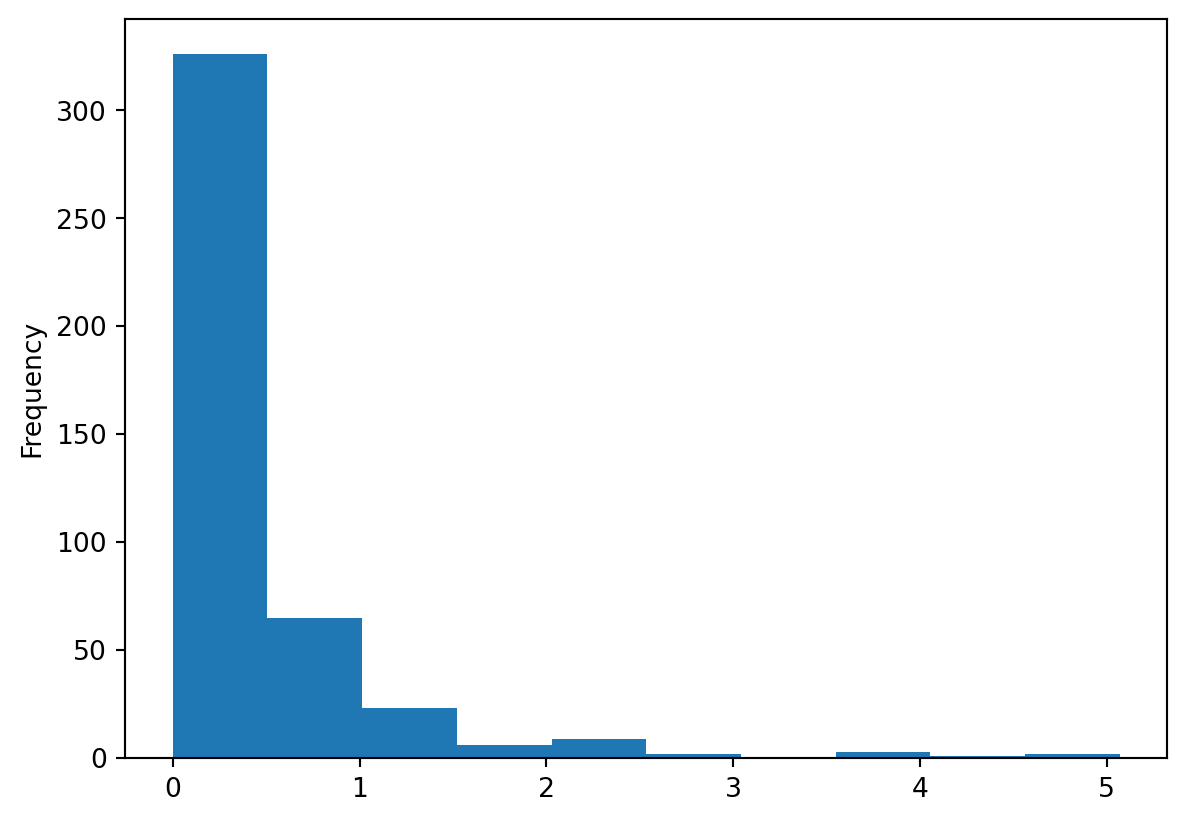
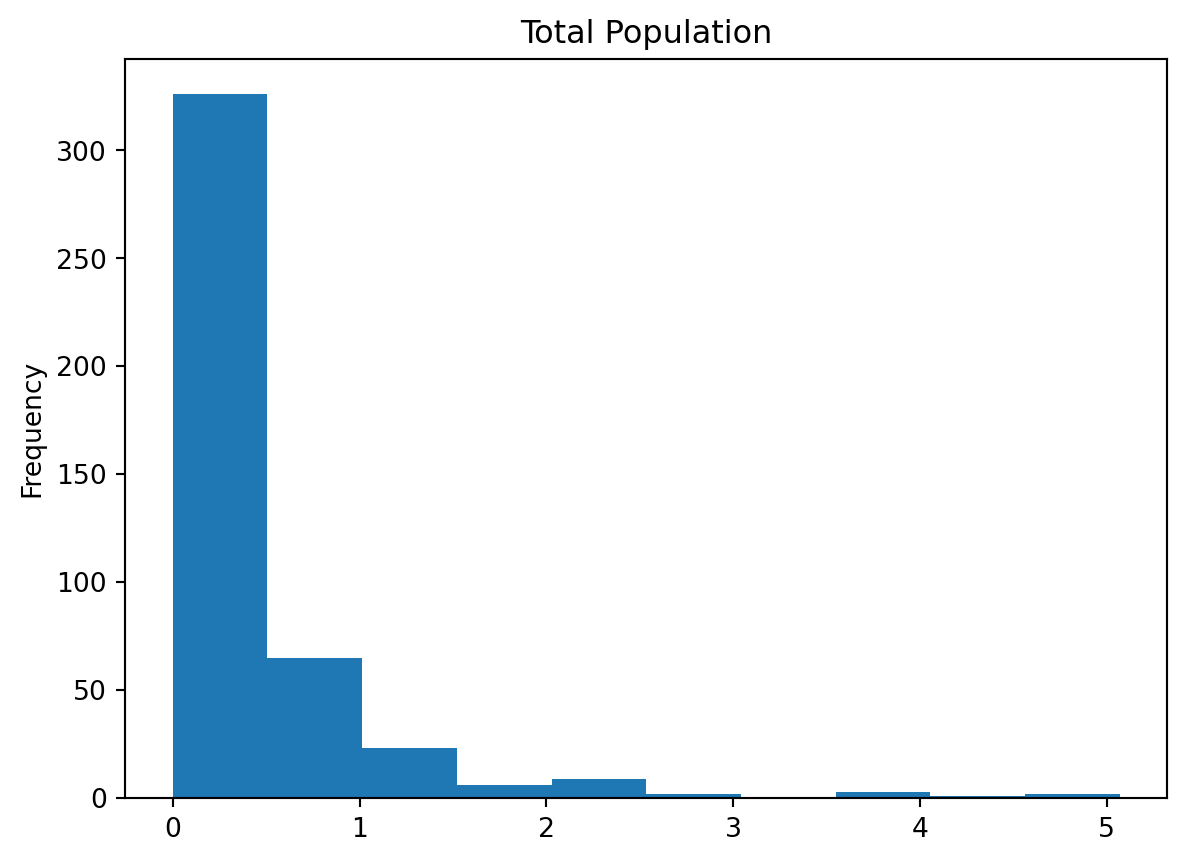
final_final

diff --git a/docs/hw1.html b/docs/hw1.html
@@ -7,7 +7,7 @@
 <meta name="viewport" content="width=device-width, initial-scale=1.0, user-scalable=yes">
 
 
-<title>Compute Tiger - INFO</title>
+<title>Compute Tiger - HW1</title>
 <style>
 code{white-space: pre-wrap;}
 span.smallcaps{font-variant: small-caps;}
@@ -138,7 +138,7 @@ pre > code.sourceCode > span > a:first-child::before { text-decoration: underlin
   </li>  
   <li class="nav-item">
     <a class="nav-link active" href="./hw1.html" aria-current="page"> 
-<span class="menu-text">INFO</span></a>
+<span class="menu-text">HW1</span></a>
   </li>  
 </ul>
           </div> <!-- /navcollapse -->
@@ -156,9 +156,25 @@ pre > code.sourceCode > span > a:first-child::before { text-decoration: underlin
     <h2 id="toc-title">On this page</h2>
    
   <ul>
-  <li><a href="#page" id="toc-page" class="nav-link active" data-scroll-target="#page">1.(84page)</a></li>
-  <li><a href="#page-1" id="toc-page-1" class="nav-link" data-scroll-target="#page-1">2.(115page)</a></li>
-  <li><a href="#page-2" id="toc-page-2" class="nav-link" data-scroll-target="#page-2">3.(130page)</a></li>
+  <li><a href="#page" id="toc-page" class="nav-link active" data-scroll-target="#page">1.(84page)</a>
+  <ul class="collapse">
+  <li><a href="#다음-표의-내용을-데이터-프레임으로-만들어-출력해보세요." id="toc-다음-표의-내용을-데이터-프레임으로-만들어-출력해보세요." class="nav-link" data-scroll-target="#다음-표의-내용을-데이터-프레임으로-만들어-출력해보세요.">다음 표의 내용을 데이터 프레임으로 만들어 출력해보세요.</a></li>
+  <li><a href="#앞에서-만든-데이터-프레임을-이용해-과일의-가격-평균과-판매량-평균을-구해보세요." id="toc-앞에서-만든-데이터-프레임을-이용해-과일의-가격-평균과-판매량-평균을-구해보세요." class="nav-link" data-scroll-target="#앞에서-만든-데이터-프레임을-이용해-과일의-가격-평균과-판매량-평균을-구해보세요.">앞에서 만든 데이터 프레임을 이용해 과일의 가격 평균과 판매량 평균을 구해보세요.</a></li>
+  </ul></li>
+  <li><a href="#page-1" id="toc-page-1" class="nav-link" data-scroll-target="#page-1">2.(115page)</a>
+  <ul class="collapse">
+  <li><a href="#mpg-데이터를-불러와-복사본을-만드세요." id="toc-mpg-데이터를-불러와-복사본을-만드세요." class="nav-link" data-scroll-target="#mpg-데이터를-불러와-복사본을-만드세요.">mpg 데이터를 불러와 복사본을 만드세요.</a></li>
+  <li><a href="#복사본-데이터를-이용해-cty는-city로-hwy는-highway로-수정하세요." id="toc-복사본-데이터를-이용해-cty는-city로-hwy는-highway로-수정하세요." class="nav-link" data-scroll-target="#복사본-데이터를-이용해-cty는-city로-hwy는-highway로-수정하세요.">복사본 데이터를 이용해 cty는 city로, hwy는 highway로 수정하세요.</a></li>
+  <li><a href="#데이터-일부를-출력해-변수명이-바뀌었는지-확인해-보세요.-다음과-같은-결과물이-출력되어야-합니다." id="toc-데이터-일부를-출력해-변수명이-바뀌었는지-확인해-보세요.-다음과-같은-결과물이-출력되어야-합니다." class="nav-link" data-scroll-target="#데이터-일부를-출력해-변수명이-바뀌었는지-확인해-보세요.-다음과-같은-결과물이-출력되어야-합니다.">데이터 일부를 출력해 변수명이 바뀌었는지 확인해 보세요. 다음과 같은 결과물이 출력되어야 합니다.</a></li>
+  </ul></li>
+  <li><a href="#page-2" id="toc-page-2" class="nav-link" data-scroll-target="#page-2">3.(130page)</a>
+  <ul class="collapse">
+  <li><a href="#midwest.csv를-불러와-데이터의-특징을-파악하세요." id="toc-midwest.csv를-불러와-데이터의-특징을-파악하세요." class="nav-link" data-scroll-target="#midwest.csv를-불러와-데이터의-특징을-파악하세요.">midwest.csv를 불러와 데이터의 특징을 파악하세요.</a></li>
+  <li><a href="#poptotal-변수를-total로-popasian-변수를-asian으로-수정하세요." id="toc-poptotal-변수를-total로-popasian-변수를-asian으로-수정하세요." class="nav-link" data-scroll-target="#poptotal-변수를-total로-popasian-변수를-asian으로-수정하세요.">poptotal 변수를 total로, popasian 변수를 asian으로 수정하세요.</a></li>
+  <li><a href="#total-asian-변수를-이용해-전체-인구-대비-아시아-인구-백분율-파생변수를-추가하고-히스토그램을-만들어-분포를-살펴보세요." id="toc-total-asian-변수를-이용해-전체-인구-대비-아시아-인구-백분율-파생변수를-추가하고-히스토그램을-만들어-분포를-살펴보세요." class="nav-link" data-scroll-target="#total-asian-변수를-이용해-전체-인구-대비-아시아-인구-백분율-파생변수를-추가하고-히스토그램을-만들어-분포를-살펴보세요.">total, asian 변수를 이용해 ‘전체 인구 대비 아시아 인구 백분율’ 파생변수를 추가하고, 히스토그램을 만들어 분포를 살펴보세요.</a></li>
+  <li><a href="#아시아-인구-백분율-전체-평균을-구하고-평균을-초과하면-large-그-외에는-small을-부여한-파생변수를-만들어보세요." id="toc-아시아-인구-백분율-전체-평균을-구하고-평균을-초과하면-large-그-외에는-small을-부여한-파생변수를-만들어보세요." class="nav-link" data-scroll-target="#아시아-인구-백분율-전체-평균을-구하고-평균을-초과하면-large-그-외에는-small을-부여한-파생변수를-만들어보세요.">아시아 인구 백분율 전체 평균을 구하고, 평균을 초과하면 ‘large’, 그 외에는 ’small’을 부여한 파생변수를 만들어보세요.</a></li>
+  <li><a href="#large와-small에-해당하는-지역이-얼마나-많은지-빈도표와-빈도-막대-그래프를-만들어-확인해-보세요." id="toc-large와-small에-해당하는-지역이-얼마나-많은지-빈도표와-빈도-막대-그래프를-만들어-확인해-보세요." class="nav-link" data-scroll-target="#large와-small에-해당하는-지역이-얼마나-많은지-빈도표와-빈도-막대-그래프를-만들어-확인해-보세요.">’large’와 ’small’에 해당하는 지역이 얼마나 많은지 빈도표와 빈도 막대 그래프를 만들어 확인해 보세요.</a></li>
+  </ul></li>
   </ul>
 </nav>
     </div>
@@ -167,7 +183,7 @@ pre > code.sourceCode > span > a:first-child::before { text-decoration: underlin
 
 <header id="title-block-header" class="quarto-title-block default">
 <div class="quarto-title">
-<h1 class="title">INFO</h1>
+<h1 class="title">HW1</h1>
 </div>
 
 
@@ -184,33 +200,79 @@ pre > code.sourceCode > span > a:first-child::before { text-decoration: underlin
 </header>
 
 
-<section id="page" class="level2">
-<h2 class="anchored" data-anchor-id="page">1.(84page)</h2>
-<div id="bc7ad1bc" class="cell" data-execution_count="1">
+<section id="page" class="level1">
+<h1>1.(84page)</h1>
+<section id="다음-표의-내용을-데이터-프레임으로-만들어-출력해보세요." class="level3">
+<h3 class="anchored" data-anchor-id="다음-표의-내용을-데이터-프레임으로-만들어-출력해보세요.">다음 표의 내용을 데이터 프레임으로 만들어 출력해보세요.</h3>
+<div id="87f2c654" class="cell" data-execution_count="1">
 <div class="sourceCode cell-code" id="cb1"><pre class="sourceCode python code-with-copy"><code class="sourceCode python"><span id="cb1-1"><a href="#cb1-1" aria-hidden="true" tabindex="-1"></a><span class="im">import</span> pandas <span class="im">as</span> pd</span>
 <span id="cb1-2"><a href="#cb1-2" aria-hidden="true" tabindex="-1"></a><span class="im">import</span> numpy <span class="im">as</span> np</span>
 <span id="cb1-3"><a href="#cb1-3" aria-hidden="true" tabindex="-1"></a><span class="im">import</span> seaborn <span class="im">as</span> sns</span>
-<span id="cb1-4"><a href="#cb1-4" aria-hidden="true" tabindex="-1"></a><span class="im">import</span> matplotlib.pyplot <span class="im">as</span> plt</span>
+<span id="cb1-4"><a href="#cb1-4" aria-hidden="true" tabindex="-1"></a></span>
 <span id="cb1-5"><a href="#cb1-5" aria-hidden="true" tabindex="-1"></a></span>
 <span id="cb1-6"><a href="#cb1-6" aria-hidden="true" tabindex="-1"></a>df1<span class="op">=</span>pd.DataFrame({</span>
 <span id="cb1-7"><a href="#cb1-7" aria-hidden="true" tabindex="-1"></a>    <span class="st">"제품"</span>:[<span class="st">"사과"</span>,<span class="st">"딸기"</span>,<span class="st">"수박"</span>],</span>
 <span id="cb1-8"><a href="#cb1-8" aria-hidden="true" tabindex="-1"></a>    <span class="st">"가격"</span>:[<span class="dv">1800</span>,<span class="dv">1500</span>,<span class="dv">3000</span>],</span>
-<span id="cb1-9"><a href="#cb1-9" aria-hidden="true" tabindex="-1"></a>    <span class="st">"판매량"</span>:[<span class="dv">24</span>,<span class="dv">38</span>,<span class="dv">13</span>]})</span></code><button title="Copy to Clipboard" class="code-copy-button"><i class="bi"></i></button></pre></div>
+<span id="cb1-9"><a href="#cb1-9" aria-hidden="true" tabindex="-1"></a>    <span class="st">"판매량"</span>:[<span class="dv">24</span>,<span class="dv">38</span>,<span class="dv">13</span>]})</span>
+<span id="cb1-10"><a href="#cb1-10" aria-hidden="true" tabindex="-1"></a>df1</span></code><button title="Copy to Clipboard" class="code-copy-button"><i class="bi"></i></button></pre></div>
+<div class="cell-output cell-output-display" data-execution_count="19">
+<div>
+
+
+<table class="dataframe caption-top table table-sm table-striped small" data-quarto-postprocess="true" data-border="1">
+<thead>
+<tr class="header">
+<th data-quarto-table-cell-role="th"></th>
+<th data-quarto-table-cell-role="th">제품</th>
+<th data-quarto-table-cell-role="th">가격</th>
+<th data-quarto-table-cell-role="th">판매량</th>
+</tr>
+</thead>
+<tbody>
+<tr class="odd">
+<td data-quarto-table-cell-role="th">0</td>
+<td>사과</td>
+<td>1800</td>
+<td>24</td>
+</tr>
+<tr class="even">
+<td data-quarto-table-cell-role="th">1</td>
+<td>딸기</td>
+<td>1500</td>
+<td>38</td>
+</tr>
+<tr class="odd">
+<td data-quarto-table-cell-role="th">2</td>
+<td>수박</td>
+<td>3000</td>
+<td>13</td>
+</tr>
+</tbody>
+</table>
+
 </div>
-<div id="2f0843b3" class="cell" data-execution_count="2">
+</div>
+</div>
+</section>
+<section id="앞에서-만든-데이터-프레임을-이용해-과일의-가격-평균과-판매량-평균을-구해보세요." class="level3">
+<h3 class="anchored" data-anchor-id="앞에서-만든-데이터-프레임을-이용해-과일의-가격-평균과-판매량-평균을-구해보세요.">앞에서 만든 데이터 프레임을 이용해 과일의 가격 평균과 판매량 평균을 구해보세요.</h3>
+<div id="1fe563b5" class="cell" data-execution_count="2">
 <div class="sourceCode cell-code" id="cb2"><pre class="sourceCode python code-with-copy"><code class="sourceCode python"><span id="cb2-1"><a href="#cb2-1" aria-hidden="true" tabindex="-1"></a><span class="bu">print</span>(<span class="ss">f"과일 가격 평균:</span><span class="sc">{</span>df1[<span class="st">"가격"</span>]<span class="sc">.</span>mean()<span class="sc">}</span><span class="ss">, 과일 판매량 평균:</span><span class="sc">{</span>df1[<span class="st">"판매량"</span>]<span class="sc">.</span>mean()<span class="sc">}</span><span class="ss">"</span>)</span></code><button title="Copy to Clipboard" class="code-copy-button"><i class="bi"></i></button></pre></div>
 <div class="cell-output cell-output-stdout">
 <pre><code>과일 가격 평균:2100.0, 과일 판매량 평균:25.0</code></pre>
 </div>
 </div>
 </section>
-<section id="page-1" class="level2">
-<h2 class="anchored" data-anchor-id="page-1">2.(115page)</h2>
-<div id="b7ce61cc" class="cell" data-execution_count="3">
+</section>
+<section id="page-1" class="level1">
+<h1>2.(115page)</h1>
+<section id="mpg-데이터를-불러와-복사본을-만드세요." class="level3">
+<h3 class="anchored" data-anchor-id="mpg-데이터를-불러와-복사본을-만드세요.">mpg 데이터를 불러와 복사본을 만드세요.</h3>
+<div id="9d8e4b2e" class="cell" data-execution_count="3">
 <div class="sourceCode cell-code" id="cb4"><pre class="sourceCode python code-with-copy"><code class="sourceCode python"><span id="cb4-1"><a href="#cb4-1" aria-hidden="true" tabindex="-1"></a>df2<span class="op">=</span>pd.read_csv(<span class="st">'data/mpg.csv'</span>)</span>
 <span id="cb4-2"><a href="#cb4-2" aria-hidden="true" tabindex="-1"></a>df3<span class="op">=</span>df2.copy()</span>
 <span id="cb4-3"><a href="#cb4-3" aria-hidden="true" tabindex="-1"></a>df3.head()</span></code><button title="Copy to Clipboard" class="code-copy-button"><i class="bi"></i></button></pre></div>
-<div class="cell-output cell-output-display" data-execution_count="56">
+<div class="cell-output cell-output-display" data-execution_count="21">
 <div>
 
 
@@ -308,10 +370,16 @@ pre > code.sourceCode > span > a:first-child::before { text-decoration: underlin
 </div>
 </div>
 </div>
-<div id="a886a006" class="cell" data-execution_count="4">
+</section>
+<section id="복사본-데이터를-이용해-cty는-city로-hwy는-highway로-수정하세요." class="level3">
+<h3 class="anchored" data-anchor-id="복사본-데이터를-이용해-cty는-city로-hwy는-highway로-수정하세요.">복사본 데이터를 이용해 cty는 city로, hwy는 highway로 수정하세요.</h3>
+</section>
+<section id="데이터-일부를-출력해-변수명이-바뀌었는지-확인해-보세요.-다음과-같은-결과물이-출력되어야-합니다." class="level3">
+<h3 class="anchored" data-anchor-id="데이터-일부를-출력해-변수명이-바뀌었는지-확인해-보세요.-다음과-같은-결과물이-출력되어야-합니다.">데이터 일부를 출력해 변수명이 바뀌었는지 확인해 보세요. 다음과 같은 결과물이 출력되어야 합니다.</h3>
+<div id="a9486a09" class="cell" data-execution_count="4">
 <div class="sourceCode cell-code" id="cb5"><pre class="sourceCode python code-with-copy"><code class="sourceCode python"><span id="cb5-1"><a href="#cb5-1" aria-hidden="true" tabindex="-1"></a>df3.rename(columns<span class="op">=</span>{<span class="st">"cty"</span>:<span class="st">"city"</span>,<span class="st">"hwy"</span>:<span class="st">"highway"</span>},inplace<span class="op">=</span><span class="va">True</span>)</span>
 <span id="cb5-2"><a href="#cb5-2" aria-hidden="true" tabindex="-1"></a>df3.head()</span></code><button title="Copy to Clipboard" class="code-copy-button"><i class="bi"></i></button></pre></div>
-<div class="cell-output cell-output-display" data-execution_count="57">
+<div class="cell-output cell-output-display" data-execution_count="22">
 <div>
 
 
@@ -410,12 +478,15 @@ pre > code.sourceCode > span > a:first-child::before { text-decoration: underlin
 </div>
 </div>
 </section>
-<section id="page-2" class="level2">
-<h2 class="anchored" data-anchor-id="page-2">3.(130page)</h2>
-<div id="5e8f912c" class="cell" data-execution_count="5">
+</section>
+<section id="page-2" class="level1">
+<h1>3.(130page)</h1>
+<section id="midwest.csv를-불러와-데이터의-특징을-파악하세요." class="level3">
+<h3 class="anchored" data-anchor-id="midwest.csv를-불러와-데이터의-특징을-파악하세요.">midwest.csv를 불러와 데이터의 특징을 파악하세요.</h3>
+<div id="5ed2d450" class="cell" data-execution_count="5">
 <div class="sourceCode cell-code" id="cb6"><pre class="sourceCode python code-with-copy"><code class="sourceCode python"><span id="cb6-1"><a href="#cb6-1" aria-hidden="true" tabindex="-1"></a>df4<span class="op">=</span>pd.read_csv(<span class="st">'data/midwest.csv'</span>)</span>
 <span id="cb6-2"><a href="#cb6-2" aria-hidden="true" tabindex="-1"></a>df4.head()</span></code><button title="Copy to Clipboard" class="code-copy-button"><i class="bi"></i></button></pre></div>
-<div class="cell-output cell-output-display" data-execution_count="58">
+<div class="cell-output cell-output-display" data-execution_count="23">
 <div>
 
 
@@ -574,13 +645,21 @@ pre > code.sourceCode > span > a:first-child::before { text-decoration: underlin
 </div>
 </div>
 </div>
-<div id="1f160bdf" class="cell" data-execution_count="6">
-<div class="sourceCode cell-code" id="cb7"><pre class="sourceCode python code-with-copy"><code class="sourceCode python"><span id="cb7-1"><a href="#cb7-1" aria-hidden="true" tabindex="-1"></a><span class="im">import</span> matplotlib <span class="im">as</span> plt</span>
+</section>
+<section id="poptotal-변수를-total로-popasian-변수를-asian으로-수정하세요." class="level3">
+<h3 class="anchored" data-anchor-id="poptotal-변수를-total로-popasian-변수를-asian으로-수정하세요.">poptotal 변수를 total로, popasian 변수를 asian으로 수정하세요.</h3>
+</section>
+<section id="total-asian-변수를-이용해-전체-인구-대비-아시아-인구-백분율-파생변수를-추가하고-히스토그램을-만들어-분포를-살펴보세요." class="level3">
+<h3 class="anchored" data-anchor-id="total-asian-변수를-이용해-전체-인구-대비-아시아-인구-백분율-파생변수를-추가하고-히스토그램을-만들어-분포를-살펴보세요.">total, asian 변수를 이용해 ‘전체 인구 대비 아시아 인구 백분율’ 파생변수를 추가하고, 히스토그램을 만들어 분포를 살펴보세요.</h3>
+<div id="020c0878" class="cell" data-execution_count="6">
+<div class="sourceCode cell-code" id="cb7"><pre class="sourceCode python code-with-copy"><code class="sourceCode python"><span id="cb7-1"><a href="#cb7-1" aria-hidden="true" tabindex="-1"></a><span class="im">import</span> matplotlib.pyplot <span class="im">as</span> plt</span>
 <span id="cb7-2"><a href="#cb7-2" aria-hidden="true" tabindex="-1"></a>df4.rename(columns<span class="op">=</span>{<span class="st">"poptotal"</span>:<span class="st">"total"</span>,<span class="st">"popasian"</span>:<span class="st">"asian"</span>},inplace<span class="op">=</span><span class="va">True</span>)</span>
 <span id="cb7-3"><a href="#cb7-3" aria-hidden="true" tabindex="-1"></a>df4[<span class="st">'percent'</span>]<span class="op">=</span>df4[<span class="st">'asian'</span>]<span class="op">/</span>df4[<span class="st">'total'</span>] <span class="op">*</span><span class="dv">100</span></span>
 <span id="cb7-4"><a href="#cb7-4" aria-hidden="true" tabindex="-1"></a>df4[<span class="st">'percent'</span>].plot.hist()</span>
-<span id="cb7-5"><a href="#cb7-5" aria-hidden="true" tabindex="-1"></a>df4.head()</span></code><button title="Copy to Clipboard" class="code-copy-button"><i class="bi"></i></button></pre></div>
-<div class="cell-output cell-output-display" data-execution_count="59">
+<span id="cb7-5"><a href="#cb7-5" aria-hidden="true" tabindex="-1"></a>plt.title(<span class="st">"Total Population"</span>)</span>
+<span id="cb7-6"><a href="#cb7-6" aria-hidden="true" tabindex="-1"></a></span>
+<span id="cb7-7"><a href="#cb7-7" aria-hidden="true" tabindex="-1"></a>df4.head()</span></code><button title="Copy to Clipboard" class="code-copy-button"><i class="bi"></i></button></pre></div>
+<div class="cell-output cell-output-display" data-execution_count="24">
 <div>
 
 
@@ -741,19 +820,22 @@ pre > code.sourceCode > span > a:first-child::before { text-decoration: underlin
 <div class="cell-output cell-output-display">
 <div>
 <figure class="figure">
-<p><img src="hw1_files/figure-html/cell-7-output-2.png" width="593" height="411" class="figure-img"></p>
+<p><img src="hw1_files/figure-html/cell-7-output-2.png" width="593" height="431" class="figure-img"></p>
 </figure>
 </div>
 </div>
 </div>
-<div id="e0550036" class="cell" data-execution_count="7">
+</section>
+<section id="아시아-인구-백분율-전체-평균을-구하고-평균을-초과하면-large-그-외에는-small을-부여한-파생변수를-만들어보세요." class="level3">
+<h3 class="anchored" data-anchor-id="아시아-인구-백분율-전체-평균을-구하고-평균을-초과하면-large-그-외에는-small을-부여한-파생변수를-만들어보세요.">아시아 인구 백분율 전체 평균을 구하고, 평균을 초과하면 ‘large’, 그 외에는 ’small’을 부여한 파생변수를 만들어보세요.</h3>
+<div id="aaa9ab33" class="cell" data-execution_count="7">
 <div class="sourceCode cell-code" id="cb8"><pre class="sourceCode python code-with-copy"><code class="sourceCode python"><span id="cb8-1"><a href="#cb8-1" aria-hidden="true" tabindex="-1"></a><span class="bu">print</span>(<span class="ss">f"아시아 인구 백분율 전체 평균: </span><span class="sc">{</span>df4[<span class="st">'percent'</span>]<span class="sc">.</span>mean()<span class="sc">}</span><span class="ss">"</span>)</span>
 <span id="cb8-2"><a href="#cb8-2" aria-hidden="true" tabindex="-1"></a>df4[<span class="st">'large_small'</span>]<span class="op">=</span>np.where(df4[<span class="st">'percent'</span>].mean()<span class="op">&gt;=</span>df4[<span class="st">'percent'</span>],<span class="st">"small"</span>,<span class="st">"large"</span>)</span>
 <span id="cb8-3"><a href="#cb8-3" aria-hidden="true" tabindex="-1"></a>df4.head()</span></code><button title="Copy to Clipboard" class="code-copy-button"><i class="bi"></i></button></pre></div>
 <div class="cell-output cell-output-stdout">
 <pre><code>아시아 인구 백분율 전체 평균: 0.4872461834357345</code></pre>
 </div>
-<div class="cell-output cell-output-display" data-execution_count="60">
+<div class="cell-output cell-output-display" data-execution_count="25">
 <div>
 
 
@@ -912,17 +994,20 @@ pre > code.sourceCode > span > a:first-child::before { text-decoration: underlin
 </div>
 </div>
 </div>
-<div id="c1d89d61" class="cell" data-execution_count="8">
+</section>
+<section id="large와-small에-해당하는-지역이-얼마나-많은지-빈도표와-빈도-막대-그래프를-만들어-확인해-보세요." class="level3">
+<h3 class="anchored" data-anchor-id="large와-small에-해당하는-지역이-얼마나-많은지-빈도표와-빈도-막대-그래프를-만들어-확인해-보세요.">’large’와 ’small’에 해당하는 지역이 얼마나 많은지 빈도표와 빈도 막대 그래프를 만들어 확인해 보세요.</h3>
+<div id="a1a011f5" class="cell" data-execution_count="8">
 <div class="sourceCode cell-code" id="cb10"><pre class="sourceCode python code-with-copy"><code class="sourceCode python"><span id="cb10-1"><a href="#cb10-1" aria-hidden="true" tabindex="-1"></a>df4_count<span class="op">=</span>df4[<span class="st">"large_small"</span>].value_counts()</span>
 <span id="cb10-2"><a href="#cb10-2" aria-hidden="true" tabindex="-1"></a>df4_count</span></code><button title="Copy to Clipboard" class="code-copy-button"><i class="bi"></i></button></pre></div>
-<div class="cell-output cell-output-display" data-execution_count="61">
+<div class="cell-output cell-output-display" data-execution_count="26">
 <pre><code>large_small
 small    318
 large    119
 Name: count, dtype: int64</code></pre>
 </div>
 </div>
-<div id="92f93c2d" class="cell" data-execution_count="9">
+<div id="c07e8fb7" class="cell" data-execution_count="9">
 <div class="sourceCode cell-code" id="cb12"><pre class="sourceCode python code-with-copy"><code class="sourceCode python"><span id="cb12-1"><a href="#cb12-1" aria-hidden="true" tabindex="-1"></a>df4_count.plot.bar(rot<span class="op">=</span><span class="dv">0</span>)</span></code><button title="Copy to Clipboard" class="code-copy-button"><i class="bi"></i></button></pre></div>
 <div class="cell-output cell-output-display">
 <div>
@@ -934,6 +1019,7 @@ Name: count, dtype: int64</code></pre>
 </div>
 
 
+</section>
 </section>
 
 </main> <!-- /main -->
